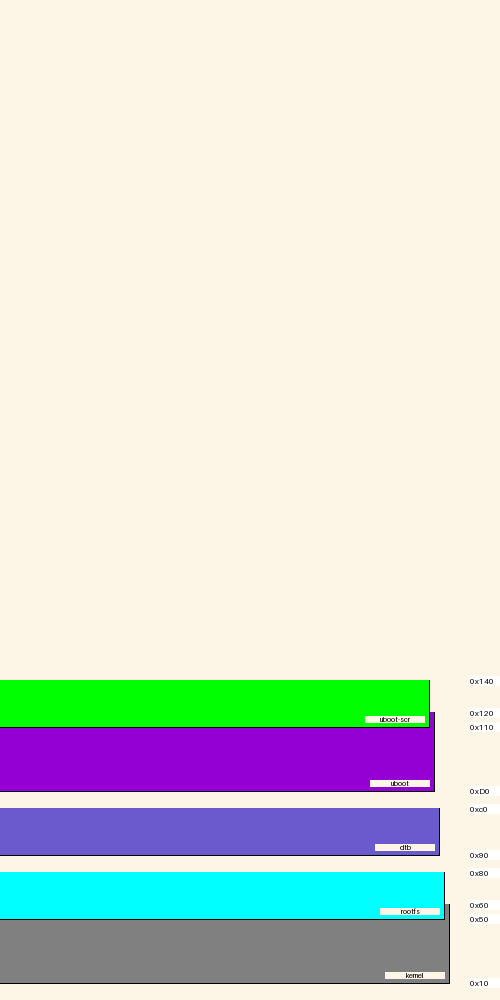
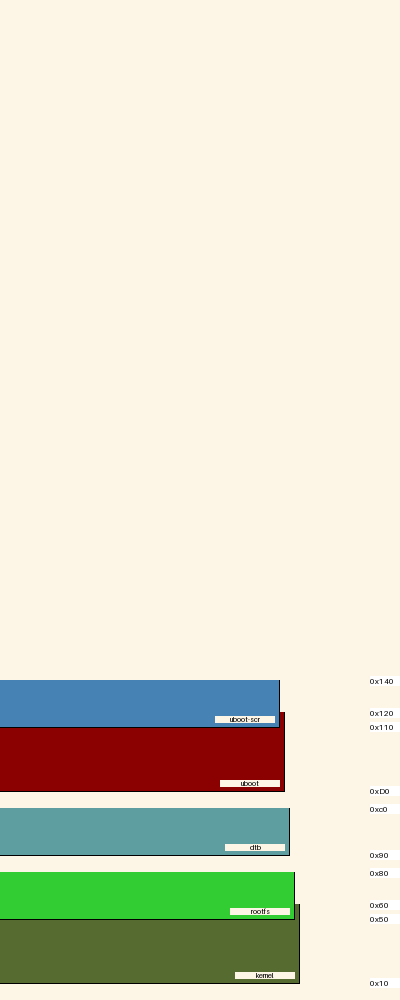
increased legend width to 100

diff --git a/mm/diagram.py b/mm/diagram.py
@@ -28,12 +28,12 @@ class MemoryMap:
 
     height = 1000
     """height of the diagram image"""
-    width = 500
+    width = 400
     """width of the diagram image"""
     bgcolour = "oldlace"
 
     def __init__(self):
-        self._legend_width = 50
+        self._legend_width = 100
         """width of the area used for text annotations/legend"""
         self._region_list = None
         """List of region objects"""

diff --git a/doc/example/report.md b/doc/example/report.md
@@ -1,8 +1,8 @@
 ![memory map diagram](report.png)
 |name|origin|size|remaining|collisions
 |:-|:-|:-|:-|:-|
-|<span style='color:gray'>kernel</span>|0x10|0x50|-0x10|{'rootfs': '0x50'}|
-|<span style='color:darkviolet'>uboot</span>|0xD0|0x50|-0x10|{'uboot-scr': '0x110'}|
-|<span style='color:aqua'>rootfs</span>|0x50|0x30|0x10|{'kernel': '0x50'}|
-|<span style='color:slateblue'>dtb</span>|0x90|0x30|0x10|{}|
-|<span style='color:lime'>uboot-scr</span>|0x110|0x30|0x2a8|{'uboot': '0x110'}|
+|<span style='color:darkolivegreen'>kernel</span>|0x10|0x50|-0x10|{'rootfs': '0x50'}|
+|<span style='color:darkred'>uboot</span>|0xD0|0x50|-0x10|{'uboot-scr': '0x110'}|
+|<span style='color:limegreen'>rootfs</span>|0x50|0x30|0x10|{'kernel': '0x50'}|
+|<span style='color:cadetblue'>dtb</span>|0x90|0x30|0x10|{}|
+|<span style='color:steelblue'>uboot-scr</span>|0x110|0x30|0x2a8|{'uboot': '0x110'}|
